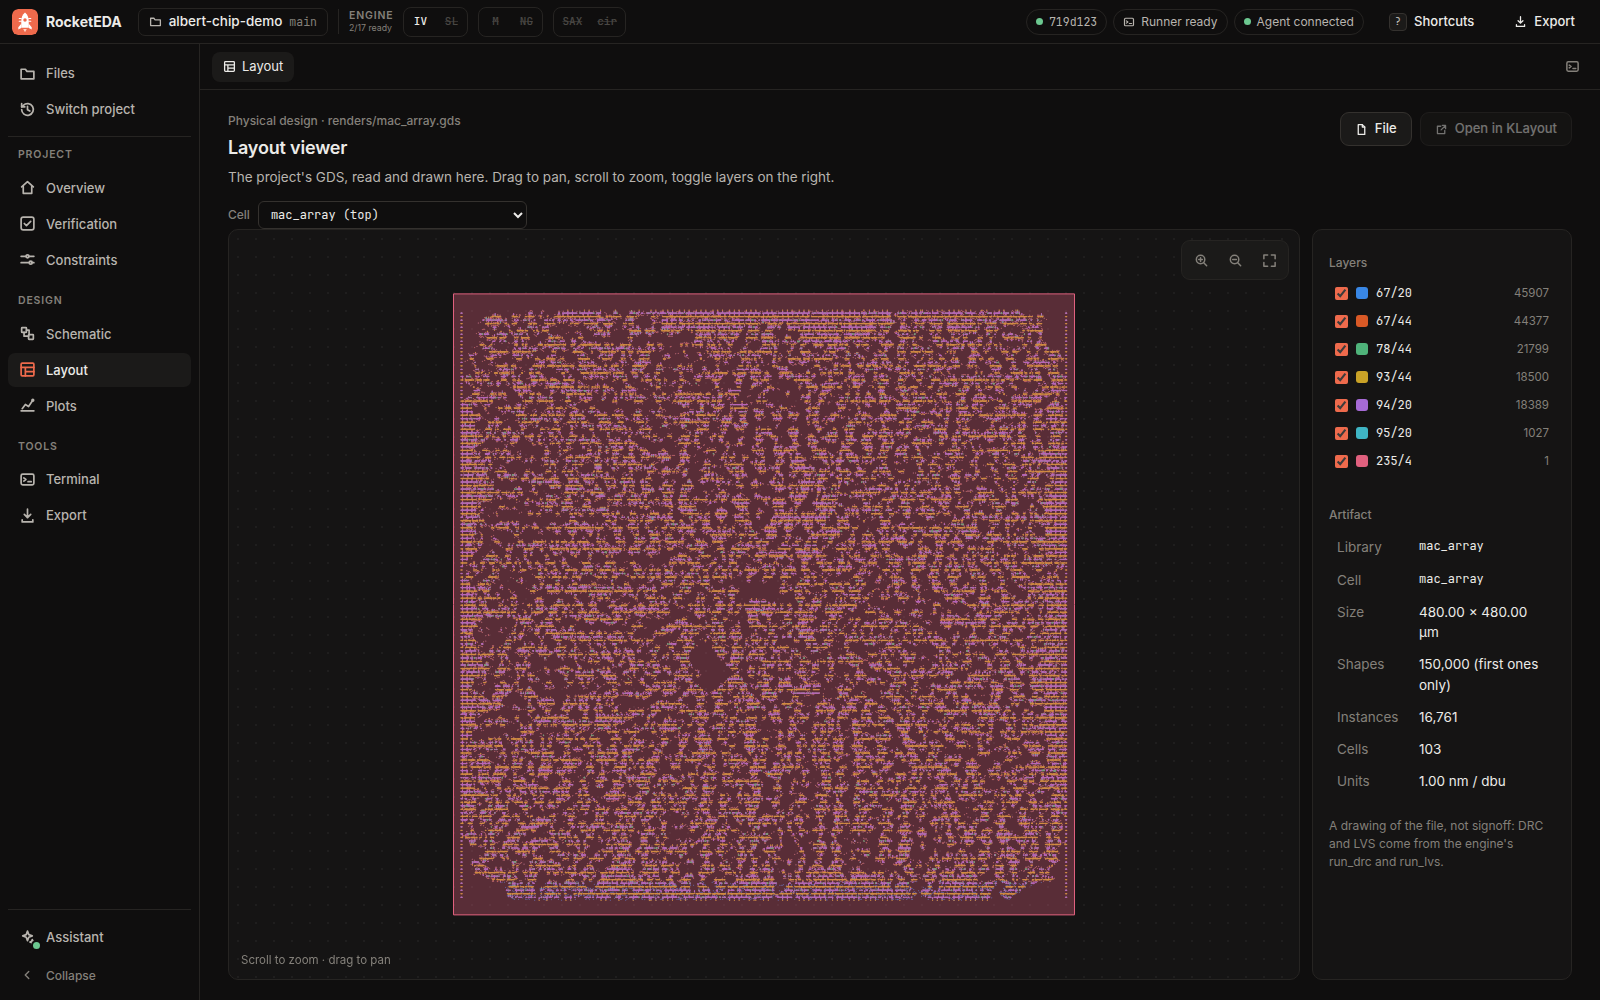
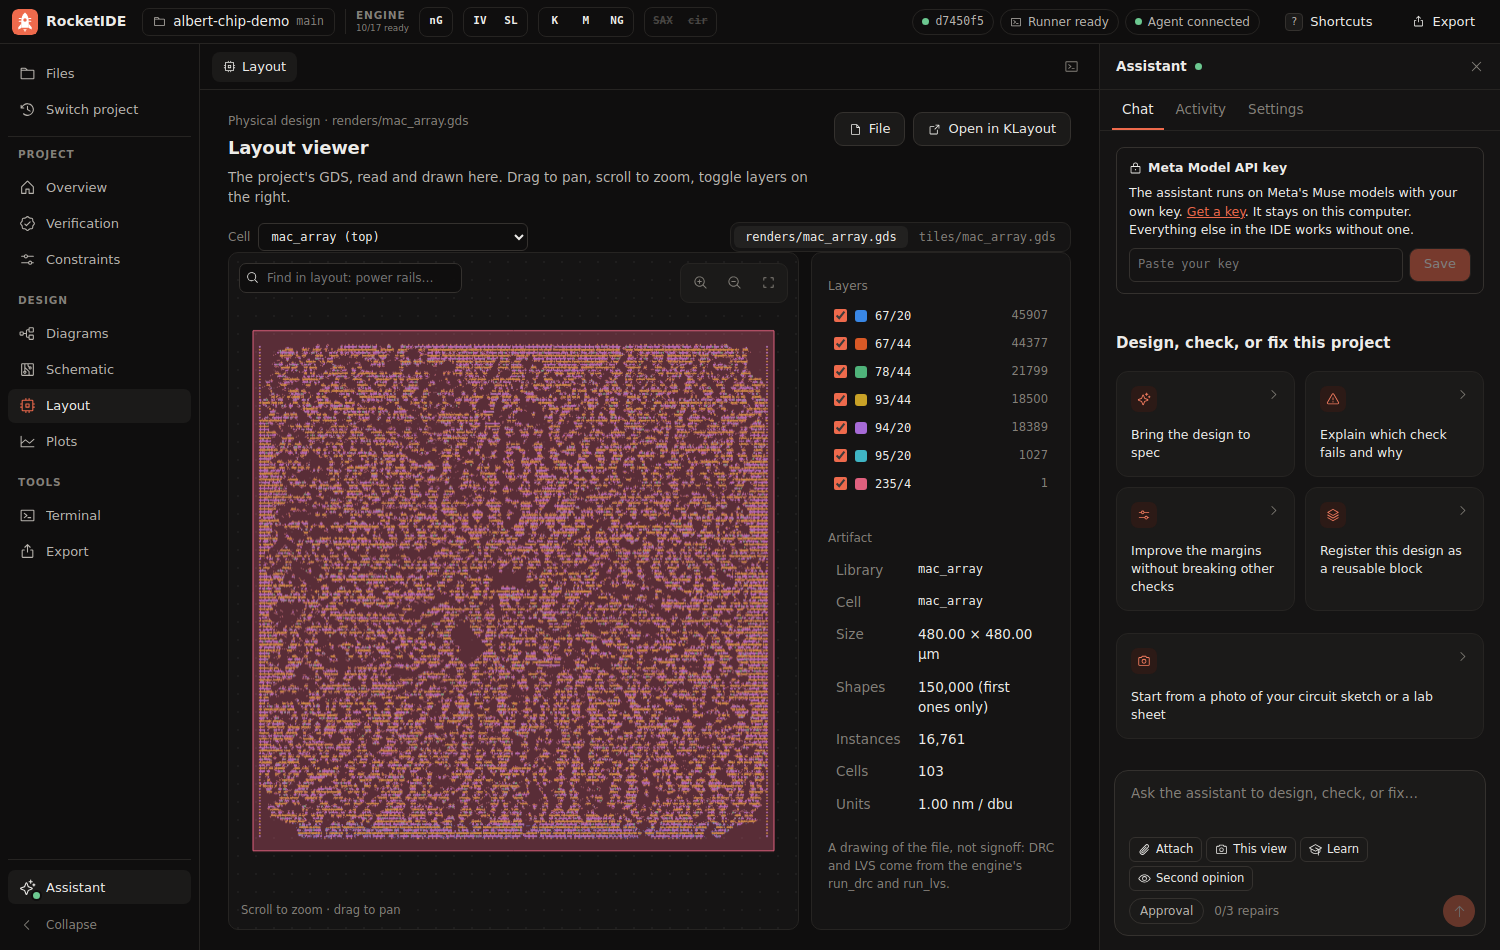
Show the app's real screens in the README, and the Live build page working in CI
CI's container now uses a scripted stand-in for the model, so its screenshots can show the assistant building something.

diff --git a/scripts/test-model.py b/scripts/test-model.py
@@ -1,0 +1,95 @@
+#!/usr/bin/env python3
+"""TEST ONLY, for CI: a scripted stand-in for the Meta Model API, so the Live build page can be seen working without a
+key. It "builds" a small counter one file at a time. It isn't a model, it never runs in normal use, and nothing it
+produces is a sample run. Usage: test-model.py <port>
+"""
+import json
+import re
+import sys
+import time
+from http.server import BaseHTTPRequestHandler, ThreadingHTTPServer
+
+COUNTER = """module counter #(parameter W = 8) (
+  input  wire         clk,
+  input  wire         rst_n,
+  input  wire         en,
+  output reg  [W-1:0] count
+);
+  always @(posedge clk or negedge rst_n)
+    if (!rst_n) count <= 0;
+    else if (en) count <= count + 1;
+endmodule
+"""
+TOP = """module counter_top (
+  input  wire       clk,
+  input  wire       rst_n,
+  input  wire       en,
+  output wire [7:0] count,
+  output wire       tick
+);
+  counter #(.W(8)) u_counter (.clk(clk), .rst_n(rst_n), .en(en), .count(count));
+  tick_detect u_tick (.clk(clk), .value(count), .tick(tick));
+endmodule
+
+module tick_detect (
+  input  wire       clk,
+  input  wire [7:0] value,
+  output reg        tick
+);
+  always @(posedge clk) tick <= value == 8'hff;
+endmodule
+"""
+STEPS = [
+    ("write", {"filePath": "{project}/README.md", "content": "# Counter\n\nAn 8-bit counter with enable and reset.\n"}),
+    ("write", {"filePath": "{project}/src/counter.v", "content": COUNTER}),
+    ("write", {"filePath": "{project}/src/counter_top.v", "content": TOP}),
+    ("write", {"filePath": "{project}/design/rc.cir", "content": "* A filter on the output\n.subckt rc in out gnd\nR1 in out 1k\nC1 out gnd 100n\n.ends rc\n"}),
+]
+DELAY = 6
+
+
+class Handler(BaseHTTPRequestHandler):
+    protocol_version = "HTTP/1.1"
+
+    def log_message(self, *_):
+        pass
+
+    def send_json(self, data):
+        body = json.dumps(data).encode()
+        self.send_response(200)
+        self.send_header("Content-Type", "application/json")
+        self.send_header("Content-Length", str(len(body)))
+        self.end_headers()
+        self.wfile.write(body)
+
+    def do_GET(self):
+        self.send_json({"data": [{"id": "muse-spark-1.3"}]})
+
+    def do_POST(self):
+        request = json.loads(self.rfile.read(int(self.headers["Content-Length"])))
+        messages = request.get("messages", [])
+        text = json.dumps(messages)
+        project = re.search(r"Working directory: ([^\s\\\"]+)", text)
+        done = sum(1 for message in messages if message.get("role") == "tool")
+        model = request.get("model")
+        if not request.get("tools"):
+            chunks = [{"delta": {"content": "Counter project"}}]
+        elif done < len(STEPS):
+            time.sleep(DELAY)
+            tool, arguments = STEPS[done]
+            arguments = {key: value.replace("{project}", project.group(1) if project else ".") for key, value in arguments.items()}
+            chunks = [{"delta": {"tool_calls": [{"index": 0, "id": f"call_{done}", "type": "function", "function": {"name": tool, "arguments": json.dumps(arguments)}}]}}]
+        else:
+            chunks = [{"delta": {"content": "TEST MODEL: finished writing the scripted files."}}]
+        finish = "tool_calls" if "tool_calls" in chunks[0]["delta"] else "stop"
+        events = [{"id": "test", "object": "chat.completion.chunk", "model": model, "choices": [{"index": 0, **chunk, "finish_reason": None}]} for chunk in chunks]
+        events.append({"id": "test", "object": "chat.completion.chunk", "model": model, "choices": [{"index": 0, "delta": {}, "finish_reason": finish}]})
+        body = ("".join(f"data: {json.dumps(event)}\n\n" for event in events) + "data: [DONE]\n\n").encode()
+        self.send_response(200)
+        self.send_header("Content-Type", "text/event-stream")
+        self.send_header("Content-Length", str(len(body)))
+        self.end_headers()
+        self.wfile.write(body)
+
+
+ThreadingHTTPServer(("127.0.0.1", int(sys.argv[1])), Handler).serve_forever()

diff --git a/README.md b/README.md
@@ -98,15 +98,35 @@ them under **Activity**. Keys and prompts are never printed or saved.
 
 ## A look inside
 
-<p align="center">
-  <img src="docs/images/layout.png" alt="Layout viewer showing the routed mac_array GDS: 16,761 instances on 480 by 480 micrometres" width="100%">
-</p>
+<table>
+  <tr>
+    <td width="50%"><img src="docs/images/home.png" alt="RocketIDE home screen: recent projects with their pictures, a New project button, and three guided lessons"></td>
+    <td width="50%"><img src="docs/images/diagrams.png" alt="Diagrams page: a block diagram read from the MobileLLM chip's Verilog, above the project's architecture pictures and pages"></td>
+  </tr>
+  <tr>
+    <td valign="top"><b>Home.</b> Your recent projects with their pictures and last results, a new project from a sentence, and lessons for beginners.</td>
+    <td valign="top"><b>Diagrams.</b> A block diagram read from the project's Verilog that you can click through from the top of the chip down, with the pictures and interactive pages it holds. Select blocks to ask the assistant about them.</td>
+  </tr>
+  <tr>
+    <td width="50%"><img src="docs/images/schematic.png" alt="Lesson 1 schematic: an RC filter drawn from its SPICE netlist"></td>
+    <td width="50%"><img src="docs/images/plots.png" alt="Frequency response of the Lesson 1 filter from the engine's ngspice sweep, with its targets and the engine's verdict"></td>
+  </tr>
+  <tr>
+    <td valign="top"><b>Schematic.</b> Drawn from the netlist at this revision.</td>
+    <td valign="top"><b>Plots.</b> Bode plots straight from the engine's own sweep, with the targets from <code>constraints.yaml</code> drawn in and the engine's verdict below.</td>
+  </tr>
+  <tr>
+    <td width="50%"><img src="docs/images/layout.png" alt="Layout viewer showing the routed mac_array GDS: 16,761 instances on 480 by 480 micrometres"></td>
+    <td width="50%"><img src="docs/images/lesson.png" alt="Lesson 1 in the IDE: the checks to pass, and the assistant ready in Learn mode"></td>
+  </tr>
+  <tr>
+    <td valign="top"><b>Layout.</b> The project's GDS, read and drawn in the browser. Find in layout marks what you name on it.</td>
+    <td valign="top"><b>Lessons.</b> Each starts out failing, the student makes the fix, and the simulator decides when they've passed.</td>
+  </tr>
+</table>
 
-The project's GDS, read and drawn in the browser: layers, cells, pan and zoom. Find in layout marks what you name on it.
-
-**Diagrams** shows what the design actually is: a block diagram read directly from the project's Verilog, which you can
-click through from the top of the chip down, plus the pictures and interactive pages the project holds, including any
-the assistant draws.
+**Live build** shows the work as it happens: when the assistant starts, the app draws each file it writes as a diagram,
+schematic or picture, beside a timeline of its steps, with new blocks marked.
 
 ## Demo project
 
